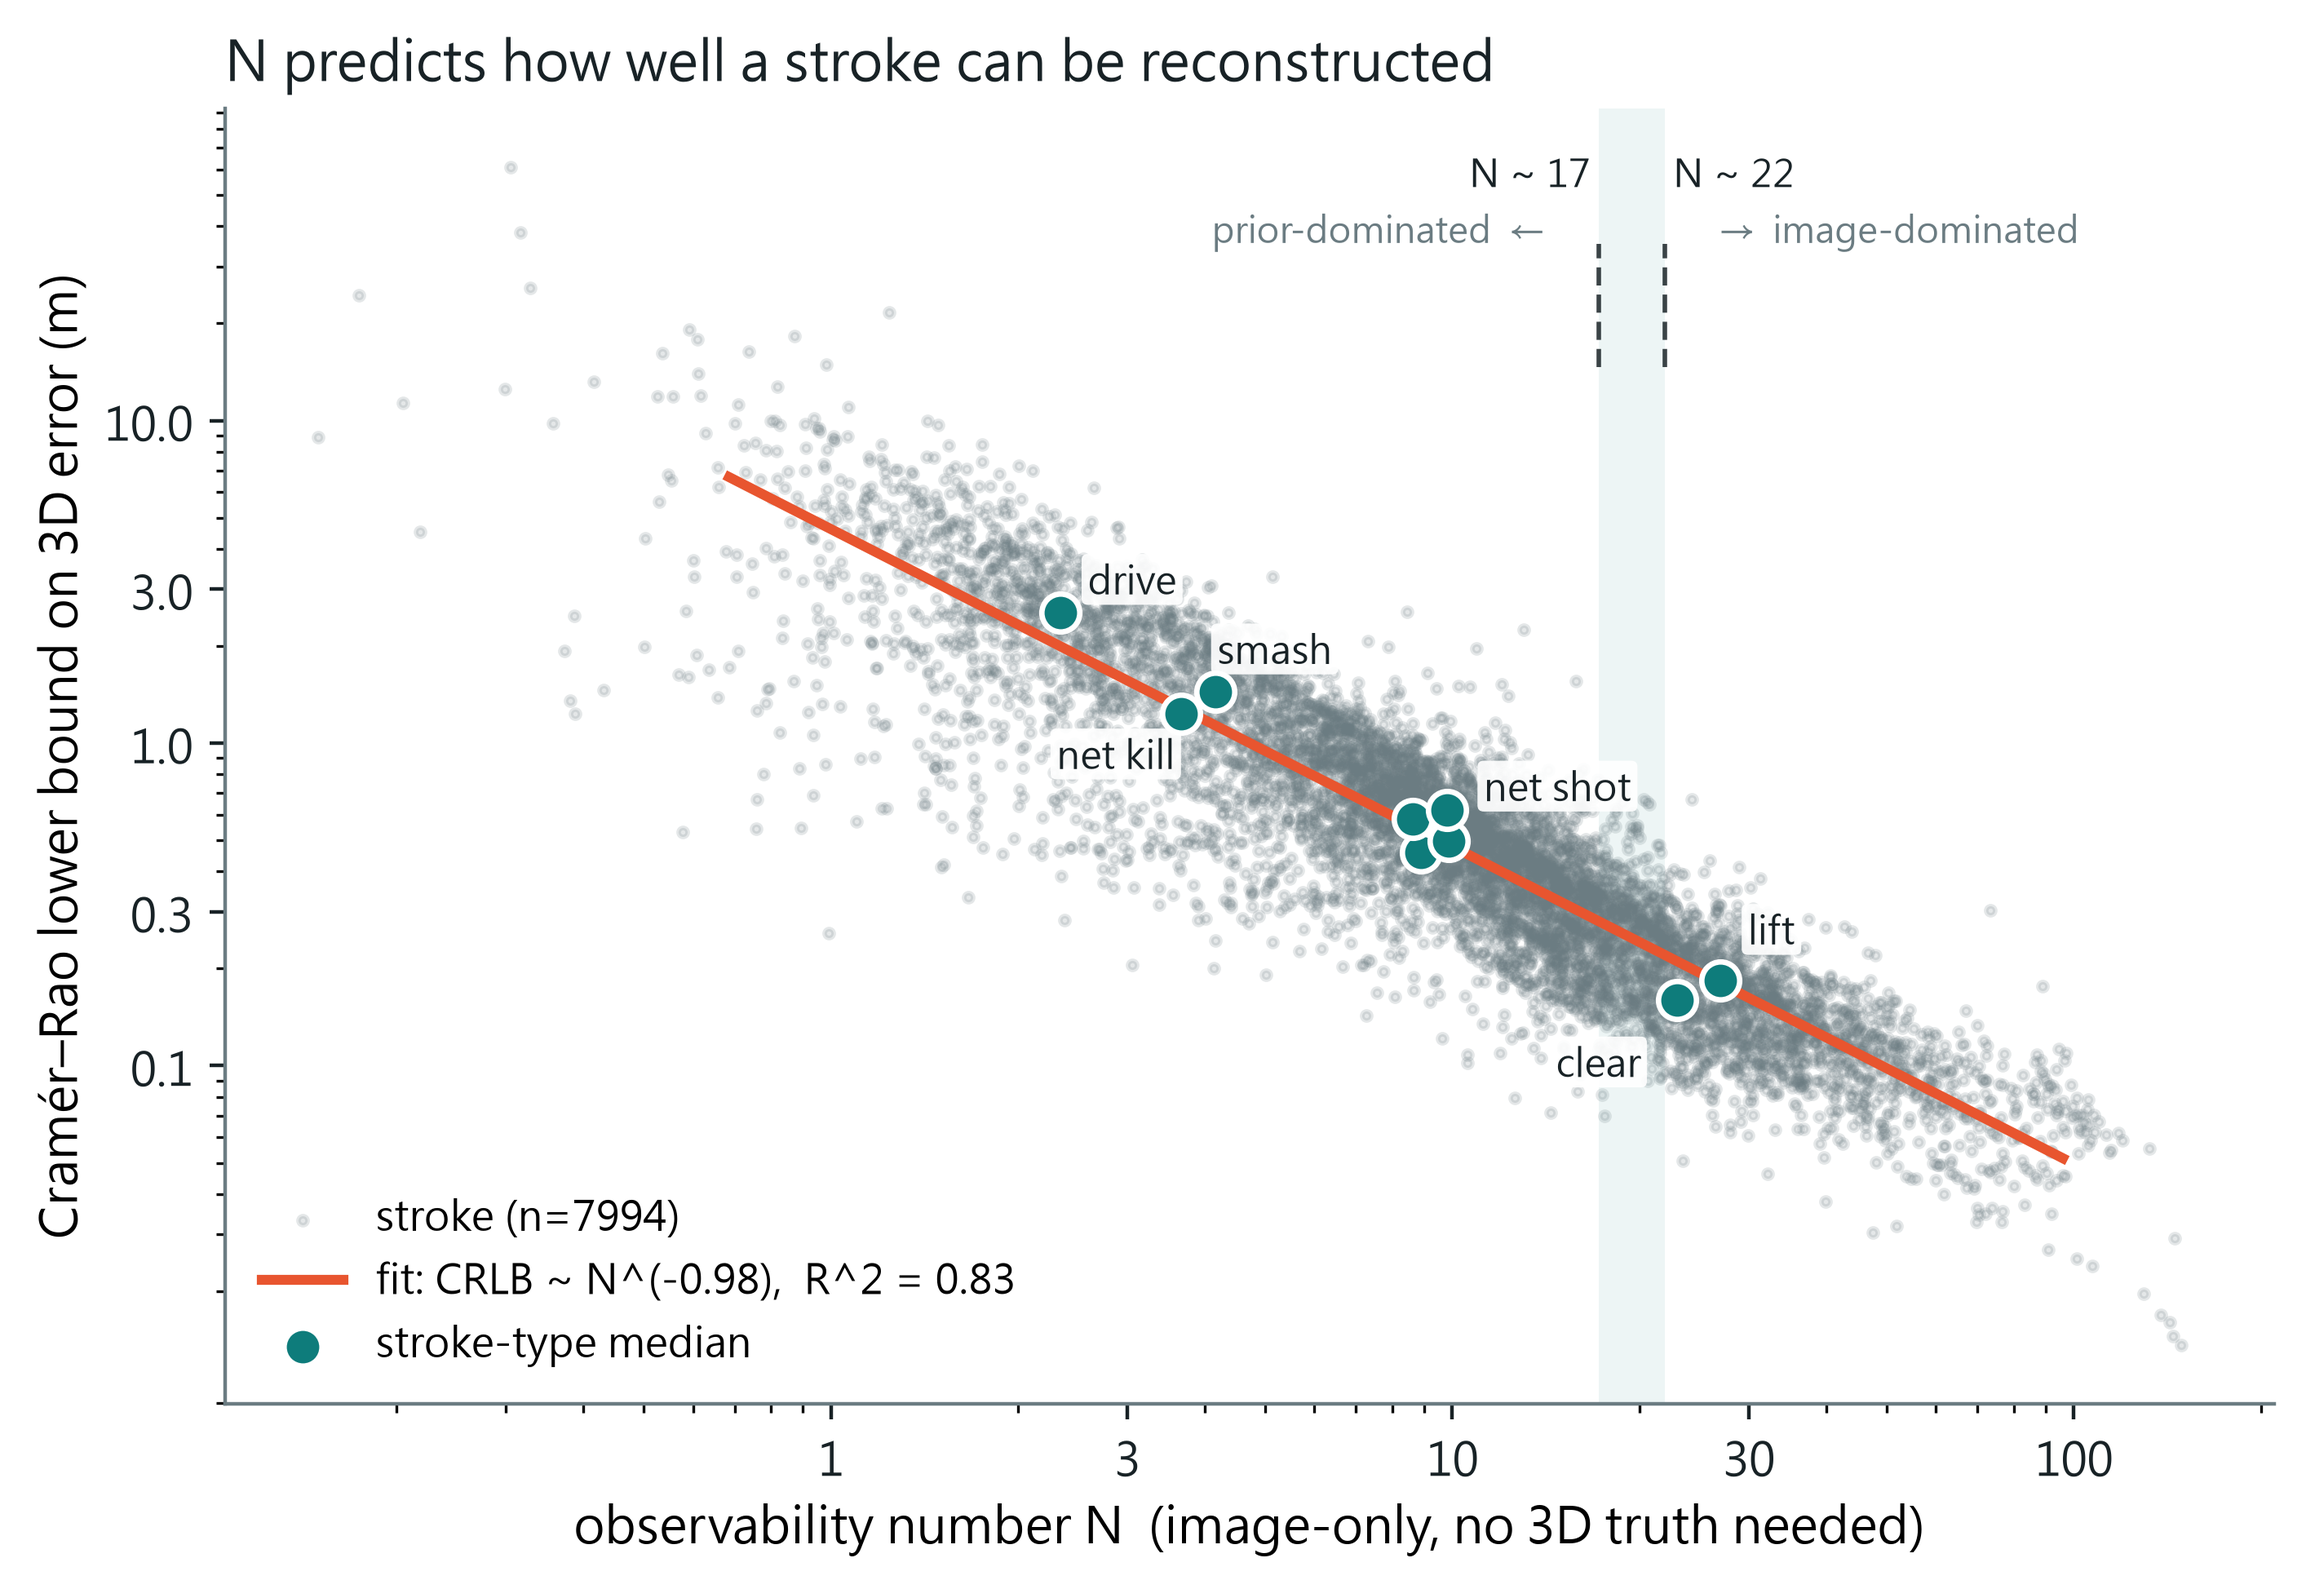
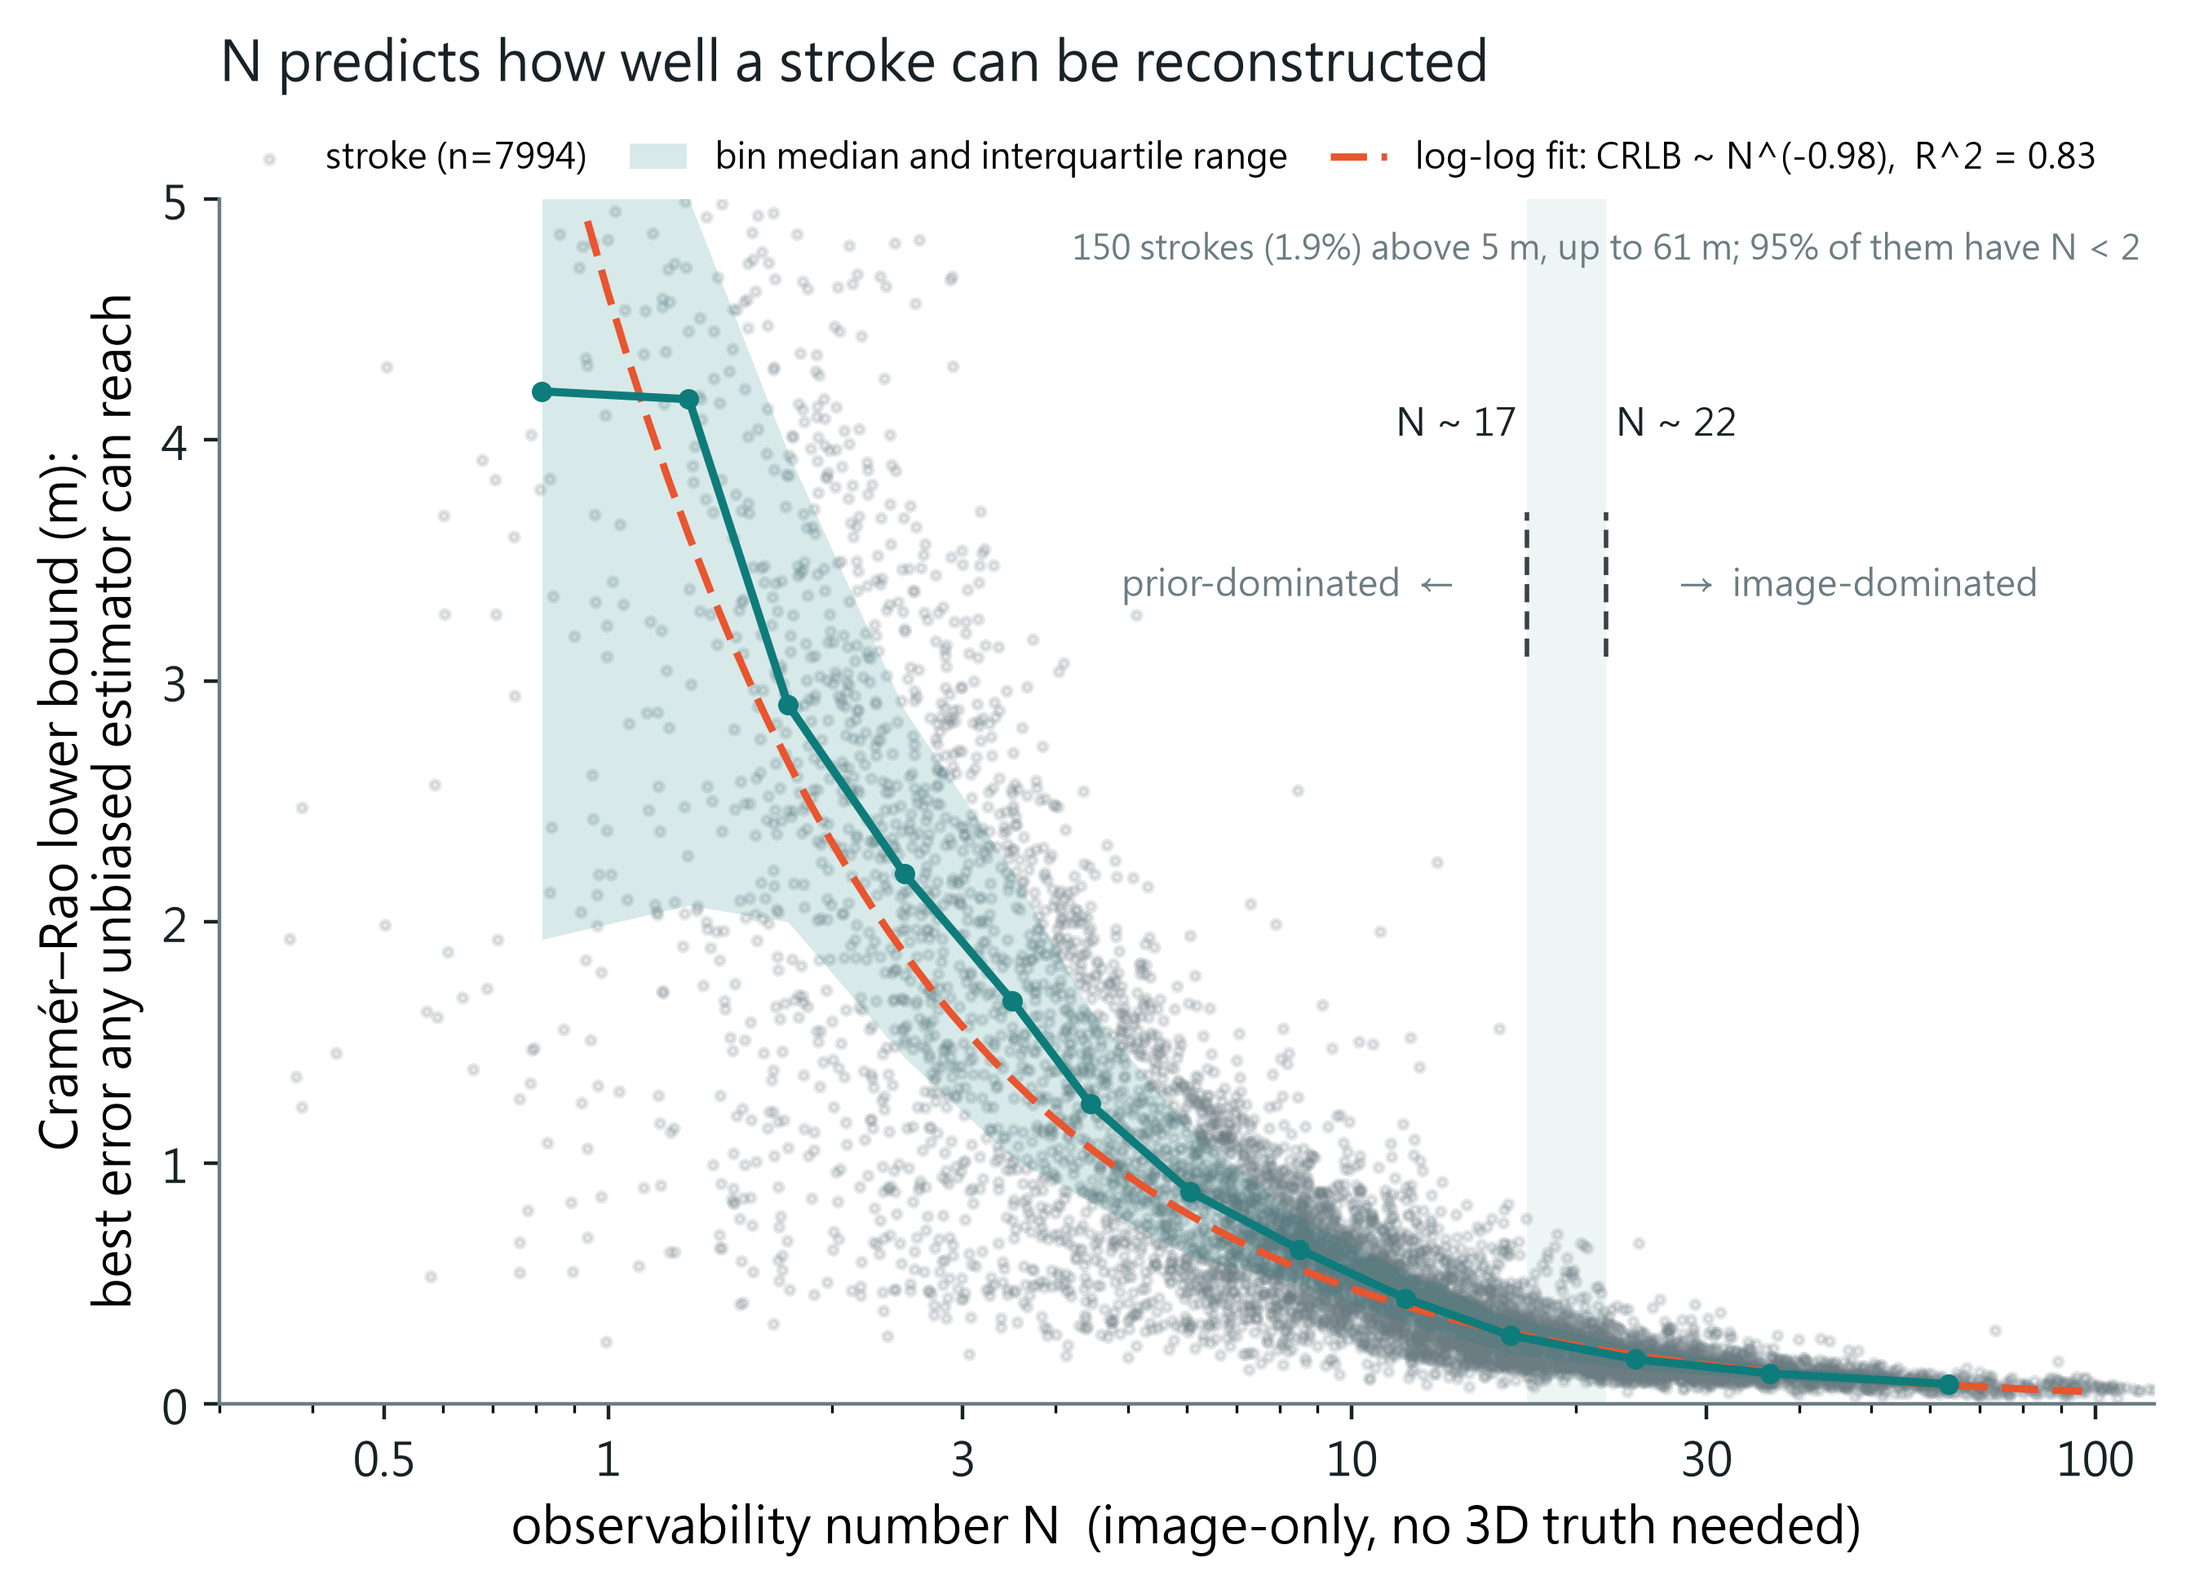
Figure 5: linear bound axis, binned median, low-N tail explained

diff --git a/index.html b/index.html
@@ -227,7 +227,7 @@ h4{font-size:15.5px;font-weight:600;margin:20px 0 6px;color:var(--muted)}
 <p><i>N</i> registers the magnitude of projected dynamic curvature relative to tracking uncertainty. As <i>N</i>&nbsp;&rarr;&nbsp;0, the observed track becomes indistinguishable from an unaccelerated ray and metric ballistic depth becomes unobservable.</p>
 <figure>
   <img src="assets/fig_observability.png" alt="Cramer-Rao bound against the observability number N on a log-log scale">
-  <figcaption><b>Figure 5 &mdash; The observability number <i>N</i> predicts the estimation bound</b> (7,994 synthetic strokes; stroke-type medians labelled; shaded: the transition between <i>N</i>&nbsp;&asymp;&nbsp;17 and 22).</figcaption>
+  <figcaption><b>Figure 5 &mdash; The observability number <i>N</i> predicts the estimation bound</b> (7,994 synthetic strokes). The vertical axis is the Cram&eacute;r&ndash;Rao bound, the smallest 3D error any unbiased estimator can reach on that stroke, not the error of a method. The 150 strokes (1.9%) above 5&nbsp;m are counted at the top; shaded: the transition between <i>N</i>&nbsp;&asymp;&nbsp;17 and 22.</figcaption>
 </figure>
 
 <h3>4.3 Fisher information and dual geometric degeneracies</h3>
@@ -240,7 +240,7 @@ h4{font-size:15.5px;font-weight:600;margin:20px 0 6px;color:var(--muted)}
 <h3>4.4 Bias&ndash;variance trade-off: learned priors versus the CRLB</h3>
 <p>Across 7,994 synthetic strokes, <i>N</i> predicts the CRLB through an empirical power law (Figure&nbsp;5):</p>
 <div class="eq">$$\text{CRLB} \propto N^{-0.98} \qquad (R^2 = 0.83,\ \text{Spearman } \rho = -0.92).$$</div>
-<p>The partial correlation remains strong (&rho;&nbsp;=&nbsp;&minus;0.59) after controlling for the number of tracked frames.</p>
+<p>The partial correlation remains strong (&rho;&nbsp;=&nbsp;&minus;0.59) after controlling for the number of tracked frames. The bound falls steeply with <i>N</i>, from a median of 4.3&nbsp;m below <i>N</i>&nbsp;=&nbsp;1.5 to 0.3&nbsp;m at <i>N</i>&nbsp;&asymp;&nbsp;15&ndash;20, and it is heavy-tailed at the low end: 1.9% of strokes exceed 5&nbsp;m (up to 61&nbsp;m). Of these, 95% have <i>N</i>&nbsp;&lt;&nbsp;2, an image track that is almost a constant-velocity line, and 45% are tracked for ten frames or fewer; they are mostly rushes and drives near the net. For such a stroke the image carries essentially no depth information.</p>
 <p><b>Prior-dominated and image-dominated regimes.</b> The bound delineates two operating regimes:</p>
 <ul class="contrib">
   <li><i>Image-dominated regime (high <i>N</i>).</i> On the four stroke types with the highest median <i>N</i> (lift 27.0, clear 23.0, cross-net 15.3, defensive lift 14.9), visual curvature is rich enough for an unbiased physics fit to compete: on 400 synthetic strokes batch MAP is more accurate than Shuttle3D on lifts (0.136 vs. 0.279&nbsp;m) and clears (0.139 vs. 0.309&nbsp;m; Supp.&nbsp;&sect;S2.1). Shuttle3D stays above the bound there (ratio 1.51&ndash;2.55), paying the variance that the tracking noise demands.</li>
